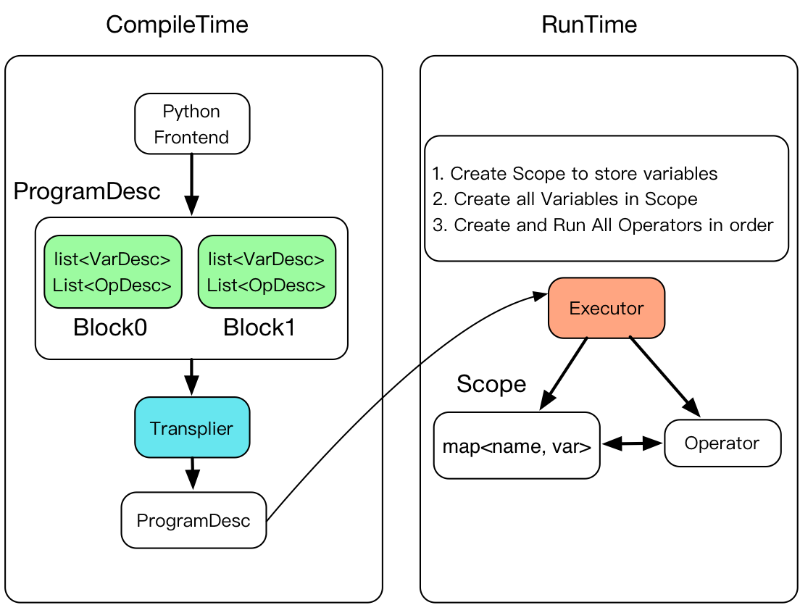
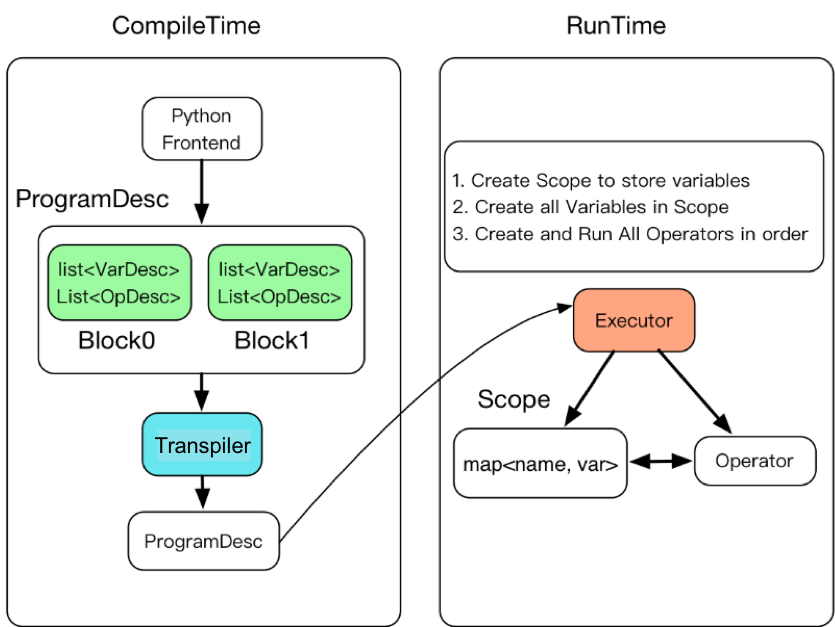
refine design idea for release/1.6, test=release/1.6

diff --git a/doc/fluid/advanced_usage/design_idea/fluid_design_idea.md b/doc/fluid/advanced_usage/design_idea/fluid_design_idea.md
@@ -2,53 +2,51 @@
 
 ## 简介
 
-本篇文档主要介绍Fluid底层的设计思想，帮助用户更好的理解框架运作过程。
+本篇文档主要介绍飞桨（PaddlePaddle，以下简称Paddle）底层的设计思想，帮助用户更好的理解框架运作过程。
 
 阅读本文档，您将了解：
 
-- Fluid 内部的执行流程
+- Paddle 内部的执行流程
 - Program 如何描述模型
 - Executor 如何执行运算
 
 
-## 1. Fluid内部执行流程
+## 1. Paddle内部执行流程
 
-Fluid使用一种编译器式的执行流程，分为编译时和运行时两个部分，具体包括：编译器定义 Program ，创建Executor 运行 Program 。
+Paddle使用一种编译器式的执行流程，分为编译时和运行时两个部分，具体包括：编译器定义 Program ，创建Executor 运行 Program 。
 
 本地训练任务执行流程图如下所示：
 <p align="center">
 	<img src="https://raw.githubusercontent.com/PaddlePaddle/FluidDoc/develop/doc/fluid/advanced_usage/design_idea/image/fluid_process.png" width=800>
 </p>
 
- 1. 编译时，用户编写一段python程序，通过调用 Fluid 提供的算子，向一段 Program 中添加变量（Tensor）以及对变量的操作（Operators 或者 Layers）。用户只需要描述核心的前向计算，不需要关心反向计算、分布式下以及异构设备下如何计算。
+ 1. 编译时，用户编写一段python程序，通过调用 Paddle 提供的算子，向一段 Program 中添加变量（Tensor）以及对变量的操作（Operators 或者 Layers）。用户只需要描述核心的前向计算，不需要关心反向计算、分布式下以及异构设备下如何计算。
 
- 2. 原始的 Program 在平台内部转换为中间描述语言： `ProgramDesc`。
+ 2. 原始的 Program 在框架内部转换为中间描述语言： `ProgramDesc`。
 
- 3. 编译期最重要的一个功能模块是 `Transpiler`。`Transpiler` 接受一段 `ProgramDesc` ，输出一段变化后的 `ProgramDesc` ，作为后端 `Executor` 最终需要执行的 Fluid Program
-
- 4. 后端 Executor 接受 Transpiler 输出的这段 Program ，依次执行其中的 Operator（可以类比为程序语言中的指令），在执行过程中会为 Operator 创建所需的输入输出并进行管理。
-
-
+ 3. `Transpiler` 接受一段 `ProgramDesc` ，输出一段变化后的 `ProgramDesc` ，作为后端 `Executor` 最终需要执行的 Program 。 `Transpiler` 并非必需步骤。
+ 
+ 4. 执行 `ProgramDesc` 中定义的 Operator（可以类比为程序语言中的指令），在执行过程中会为 Operator 创建所需的输入输出并进行管理。
 
 
 ## 2. Program设计思想
 
-用户完成网络定义后，一段 Fluid 程序中通常存在 2 段 Program：
+用户完成网络定义后，一段 Paddle 程序中通常存在 2 个 Program：
 
-  1. fluid.default_startup_program：定义了创建模型参数，输入输出，以及模型中可学习参数的初始化等各种操作
+  1. fluid.default_startup_program：定义了模型参数初始化、优化器参数初始化、reader初始化等各种操作。
 
-    default_startup_program 可以由框架自动生成，使用时无需显示地创建
+    default_startup_program 可以由框架自动生成，使用时无需显式地创建
 
     如果调用修改了参数的默认初始化方式，框架会自动的将相关的修改加入default_startup_program
 
-  2. fluid.default_main_program ：定义了神经网络模型，前向反向计算，以及优化算法对网络中可学习参数的更新
+  2. fluid.default_main_program ：定义了神经网络模型，前向反向计算，以及模型参数更新、优化器参数更新等各种操作。
 
-    使用Fluid的核心就是构建起 default_main_program
+    使用Paddle的核心就是构建起 default_main_program
 
 
-
+<a name="ProgramsAndBlocks"></a>
 ### Programs and Blocks
-Fluid 的 Program 的基本结构是一些嵌套 blocks，形式上类似一段 C++ 或 Java 程序。
+Paddle 的 Program 的基本结构是一些嵌套 blocks，形式上类似一段 C++ 或 Java 程序。
 
 blocks中包含：
 
@@ -68,7 +66,7 @@ int main(){ //block 0
 }
 ```
 
-类似的，在下列 Fluid 的 Program 包含3段block：
+类似的，在下列 Paddle 的 Program 包含3段block：
 
 ```python
 import paddle.fluid as fluid  # block 0
@@ -95,7 +93,7 @@ prob = ie()
 ```
 ### BlockDesc and ProgramDesc
 
-用户描述的block与program信息在Fluid中以[protobuf](https://en.wikipedia.org/wiki/Protocol_Buffers) 格式保存，所有的`protobuf`信息被定义在`framework.proto`中，在Fluid中被称为BlockDesc和ProgramDesc。ProgramDesc和BlockDesc的概念类似于一个[抽象语法树](https://en.wikipedia.org/wiki/Abstract_syntax_tree)。
+用户描述的block与program信息在Paddle中以[protobuf](https://en.wikipedia.org/wiki/Protocol_Buffers) 格式保存，所有的`protobuf`信息被定义在`framework.proto`中，在Paddle中被称为BlockDesc和ProgramDesc。ProgramDesc和BlockDesc的概念类似于一个[抽象语法树](https://en.wikipedia.org/wiki/Abstract_syntax_tree)。
 
 `BlockDesc`中包含本地变量的定义 [vars](../../api_guides/low_level/program.html#variable)，和一系列的operator`ops`：
 
@@ -108,7 +106,7 @@ message BlockDesc {
 }
 
 ```
-parent ID表示父块，因此block中的操作符可以引用本地定义的变量，也可以引用祖先块中定义的变量。
+parent_idx表示父块，因此block中的操作符可以引用本地定义的变量，也可以引用祖先块中定义的变量。
 
 Program 中的每层 block 都被压平并存储在数组中。blocks ID是这个数组中块的索引。
 
@@ -120,7 +118,7 @@ message ProgramDesc {
 
 ### 使用Blocks的Operator
 
-[Programs and Blocks](#Programs and Blocks)的例子中，IfElseOp这个Operator包含了两个block——true分支和false分支。
+[Programs and Blocks](#ProgramsAndBlocks)的例子中，IfElseOp这个Operator包含了两个block——true分支和false分支。
 
 下述OpDesc的定义过程描述了一个operator可以包含哪些属性：
 
@@ -152,7 +150,7 @@ message AttrDesc {
 
 Executor 在运行时将接受一个`ProgramDesc`、一个`block_id`和一个`Scope`。`ProgramDesc`是`block`的列表，每一项包含`block`中所有参数和`operator`的`protobuf`定义；`block_id`指定入口块；`Scope`是所有变量实例的容器。
 
-其中 `Scope` 包含了 `name` 与 `Variable` 的映射，所有变量都被定义在 `Scope` 里。大部分API会默认使用 `global_scope` ,例如 :code:`Executor.run`,您也可以指定网络运行在某个特定的 `Scope` 中，一个网络可以在不同的 `Scope`内运行，并在该 `Scope` 内更新不同的 `Variable`。
+其中 `Scope` 包含了 `name` 与 `Variable` 的映射，所有变量都被定义在 `Scope` 里。大部分API会默认使用 `global_scope` ，例如 `Executor.run` ，您也可以指定网络运行在某个特定的 `Scope` 中，一个网络可以在不同的 `Scope`内运行，并在该 `Scope` 内更新不同的 `Variable`。
 
 完成的编译执行的具体过程如下图所示：
 
@@ -160,9 +158,9 @@ Executor 在运行时将接受一个`ProgramDesc`、一个`block_id`和一个`Sc
 <img src="https://raw.githubusercontent.com/PaddlePaddle/FluidDoc/develop/doc/fluid/advanced_usage/design_idea/image/executor_design.png" width=600>
 </p>
 
-1. Executor 为每一个block创建一个Scope，Block是可嵌套的，因此Scope也是可嵌套的
-2. 创建所有Scope中的变量
-3. 按顺序创建并执行所有operator
+1. Executor 为每一个block创建一个Scope，Block是可嵌套的，因此Scope也是可嵌套的。
+2. 创建所有Scope中的变量。
+3. 创建并执行所有operator。
 
 
 
@@ -182,7 +180,7 @@ class Executor{
 				scope->Var(Var->Name());
 			}
 
-			//创建OP并按顺序执行
+			//创建OP并执行
 			for (auto& op_desc : block.AllOps()){
 				auto op = CreateOp(*op_desc);
 				op->Run(*local_scope, place_);
@@ -192,7 +190,7 @@ class Executor{
 
 **创建Executor**
 
-Fluid中使用fluid.Executor(place)创建Executor，place属性由用户定义，代表程序将在哪里执行。
+Paddle中使用fluid.Executor(place)创建Executor，place属性由用户定义，代表程序将在哪里执行。
 
 下例代码表示创建一个Executor，其运行场所在CPU内：
 
@@ -203,7 +201,7 @@ exe = fluid.Executor(cpu)
 
 **运行Executor**
 
-Fluid使用Executor.run来运行程序。定义中通过Feed映射获取数据，通过fetch\_list获取结果：
+Paddle使用Executor.run来运行程序。定义中通过Feed映射获取数据，通过fetch\_list获取结果：
 
 ```python
 ...
@@ -215,11 +213,11 @@ outs = exe.run(
 
 
 ## 代码实例
-本节通过[Fluid编程指南](../../beginners_guide/programming_guide/programming_guide.html)中简单的线性回归例子，为您介绍上述内容如何在代码中实现。
+本节通过[编程指南](../../beginners_guide/programming_guide/programming_guide.html)中简单的线性回归例子，为您介绍上述内容如何在代码中实现。
 
 **定义Program**
 
-您可以随意定义自己的数据和网络结构，定义的结果都将作为一段 Program 被 Fluid 接收，Program 的基本结构是一些 blocks，本节的 Program 仅包含一个 block 0：
+您可以随意定义自己的数据和网络结构，定义的结果都将作为一段 Program 被 Paddle 接收，Program 的基本结构是一些 blocks，本节的 Program 仅包含一个 block 0：
 
 ```python
 #加载函数库
@@ -230,8 +228,8 @@ import numpy
 train_data=numpy.array([[1.0],[2.0],[3.0],[4.0]]).astype('float32')
 y_true = numpy.array([[2.0],[4.0],[6.0],[8.0]]).astype('float32')
 #定义网络
-x = fluid.layers.data(name="x",shape=[1],dtype='float32')
-y = fluid.layers.data(name="y",shape=[1],dtype='float32')
+x = fluid.data(name="x",shape=[None, 1],dtype='float32')
+y = fluid.data(name="y",shape=[None, 1],dtype='float32')
 y_predict = fluid.layers.fc(input=x,size=1,act=None)
 #定义损失函数
 cost = fluid.layers.square_error_cost(input=y_predict,label=y)
@@ -298,9 +296,9 @@ blocks {
 ```
 从输出结果中可以看到，整个定义过程在框架内部转化为了一段ProgramDesc，以block idx为索引。本次线性回归模型中仅有1个block，ProgramDesc中也仅有block 0一段BlockDesc。
 
-BlockDesc中包含定义的 vars 和一系列的 ops，以输入x为例，python代码中定义 x 是一个数据类型为"float 32"的1维数据：
+BlockDesc中包含定义的 vars 和一系列的 ops，以输入x为例，python代码中定义 x 是一个数据类型为"float32"的1维数据：
 ```python
-x = fluid.layers.data(name="x",shape=[1],dtype='float32')
+x = fluid.data(name="x",shape=[None, 1],dtype='float32')
 ```
 在BlockDesc中，变量x被描述为：
 ```
@@ -319,15 +317,15 @@ vars {
     }
     persistable: false
 ```
-在Fluid中所有的数据类型都为LoD-Tensor，对于不存在序列信息的数据（如此处的变量X），其lod_level=0。
+在Paddle中所有的数据类型都为LoD-Tensor，对于不存在序列信息的数据（如此处的变量X），其lod_level=0。
 
-dims表示数据的维度，这里表示 x 的维度为[-1,1]，其中-1是batch的维度，无法确定具体数值时，Fluid 自动用 -1 占位。
+dims表示数据的维度，这里表示 x 的维度为[-1,1]，其中-1是batch的维度，无法确定具体数值时，Paddle 自动用 -1 占位。
 
 参数`persistable`表示该变量在整个训练过程中是否为持久化变量。
 
 **创建Executor**
 
-Fluid使用Executor来执行网络训练，Executor运行细节请参考[Executor设计思想](#Executor设计思想)的介绍。作为使用者，实际并不需要了解内部机制。
+Paddle使用Executor来执行网络训练，Executor运行细节请参考[Executor设计思想](#Executor设计思想)的介绍。作为使用者，实际并不需要了解内部机制。
 
 创建Executor只需调用 fluid.Executor(place) 即可，在此之前请您依据训练场所定义place变量：
 ```python
@@ -338,14 +336,14 @@ Fluid使用Executor来执行网络训练，Executor运行细节请参考[Executo
 ```
 **运行Executor**
 
-Fluid使用Executor.run来运行一段Program。
+Paddle使用Executor.run来运行一段Program。
 
-正式进行网络训练前，需先执行参数初始化。其中 defalut_startup_program 中定义了创建模型参数，输入输出，以及模型中可学习参数的初始化等各种操作。
+正式进行网络训练前，需先执行参数初始化。其中 defalut_startup_program 中定义了模型参数初始化、优化器参数初始化、reader初始化等各种操作。
 ```python
  #参数初始化
  exe.run(fluid.default_startup_program())
 ```
-由于传入数据与传出数据存在多列，因此 fluid 通过 feed 映射定义数据的传输数据，通过 fetch_list 取出期望结果：
+由于传入数据与传出数据存在多列，因此 Paddle 通过 feed 映射定义数据的传输数据，通过 fetch_list 取出期望结果：
 ```python
 #开始训练
  outs = exe.run(
@@ -362,5 +360,5 @@ Fluid使用Executor.run来运行一段Program。
        [6.099215 ]], dtype=float32), array([1.6935859], dtype=float32)]
 ```
 
-至此您已经了解了Fluid 内部的执行流程的核心概念，更多框架使用细节请参考[使用指南](../../user_guides/index_cn.html)相关内容，[模型库](../../user_guides/models/index_cn.html
+至此您已经了解了Paddle内部的执行流程的核心概念，更多框架使用细节请参考[使用指南](../../user_guides/index_cn.html)相关内容，[模型库](../../user_guides/models/index_cn.html
 )中也为您提供了丰富的模型示例以供参考。
